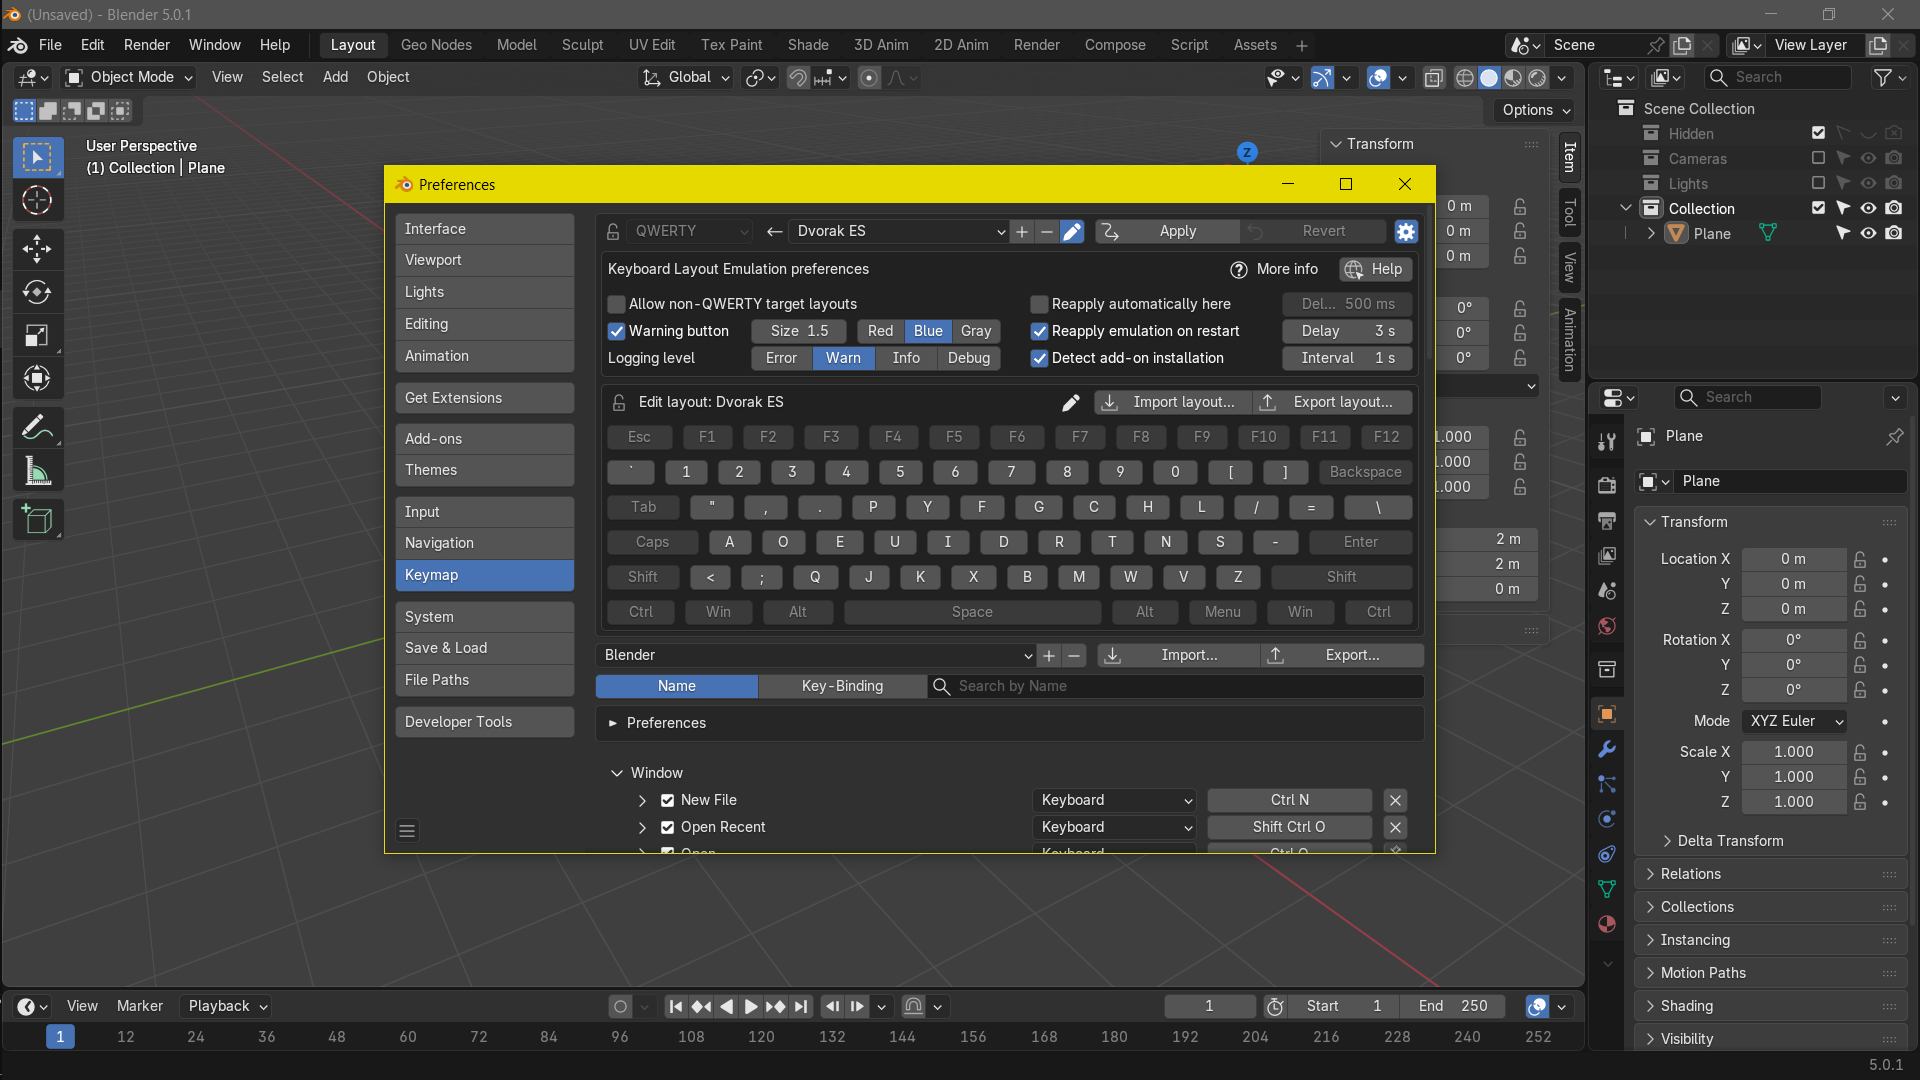
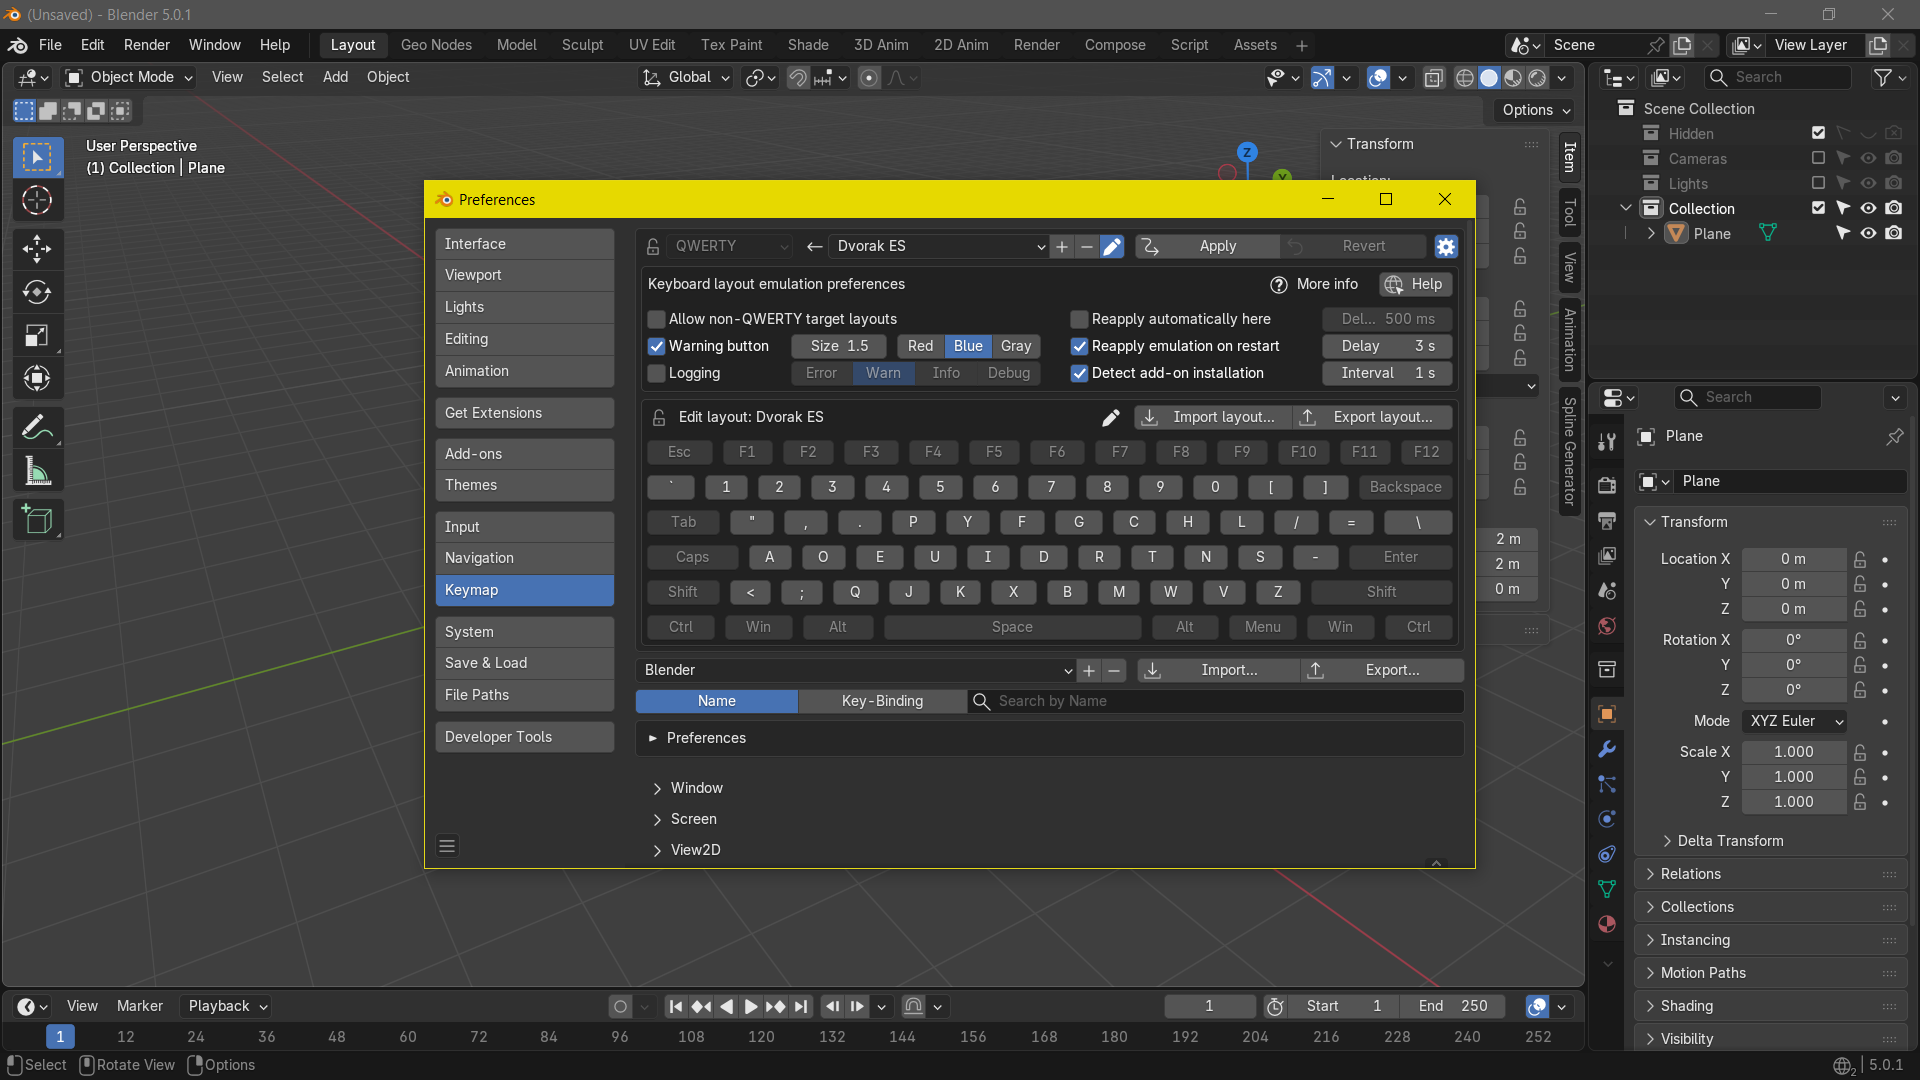
Make logging optional.

diff --git a/docs/preferences.md b/docs/preferences.md
@@ -11,7 +11,7 @@ To reveal them, press the preferences icon in the top right corner.
 - [Interface settings](#interface-settings)
     - [Allow non-QWERTY target layouts](#allow-non-qwerty-target-layouts)
     - [Warning button](#warning-button)
-    - [Logging level](#logging-level)
+    - [Logging](#logging)
 - [Import preferences](#import-preferences)
 - [Uninstall options](#uninstall-options)
 
@@ -87,11 +87,11 @@ in some shortcuts being remapped a second time on the next Blender restart.
 You may hide or change the aspect of this warning button to make it easier to
 bear or harder to miss.
 
-#### Logging level
-By default, only errors and warnings are logged in Blender's System Console.
-If you are troubleshooting an issue with this extension, you may want to
-increase the logging level to see read more detailed logs when emulation is
-applied or reverted.
+#### Logging
+By default, no logging is done by the add-on.
+You may enable logging of errors, warnings or debug messages into
+Blender's System Console if you want to troubleshoot an issue
+with layout emulation.
 
 ### Import preferences
 You may export and import the preferences for this extension from the
